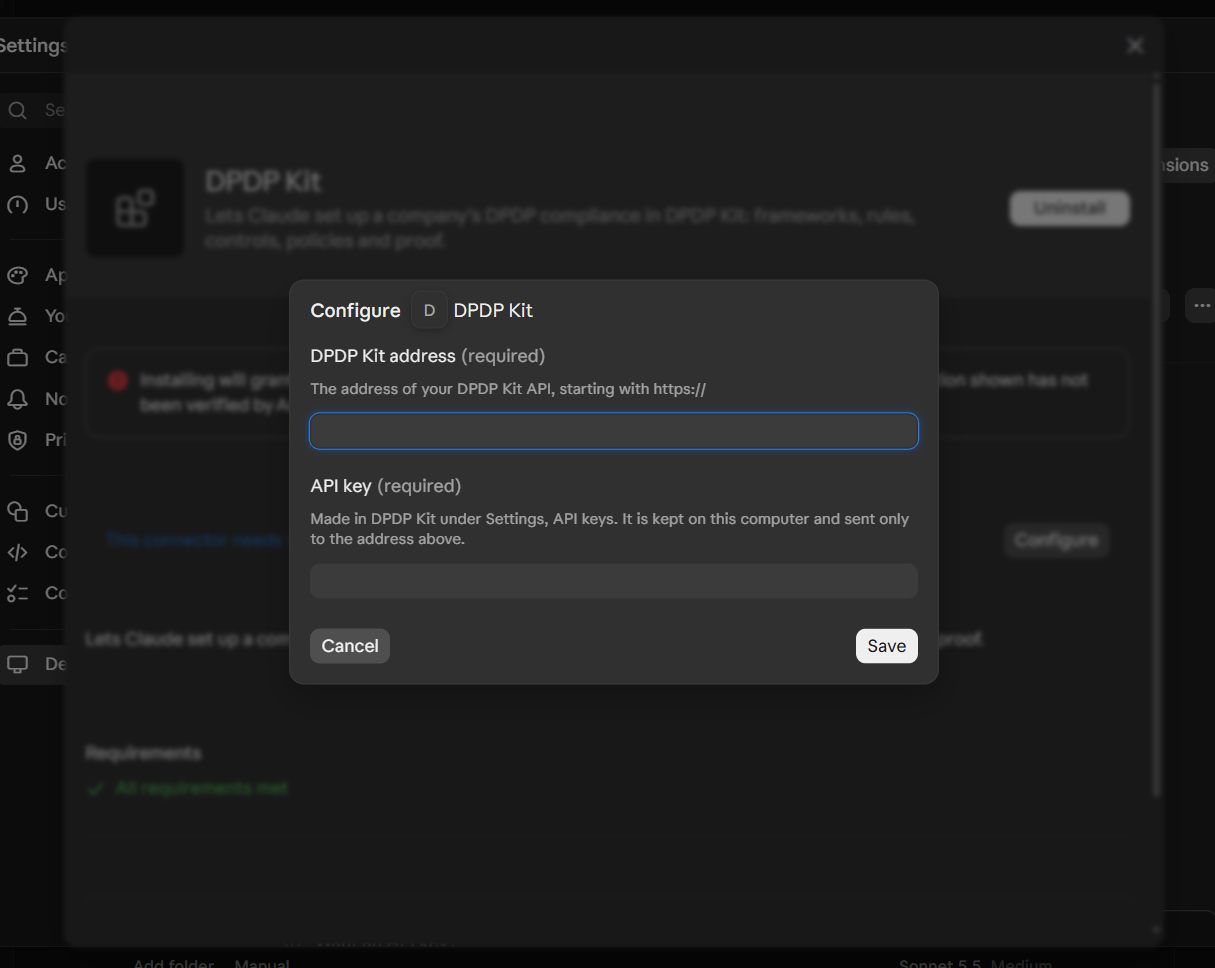
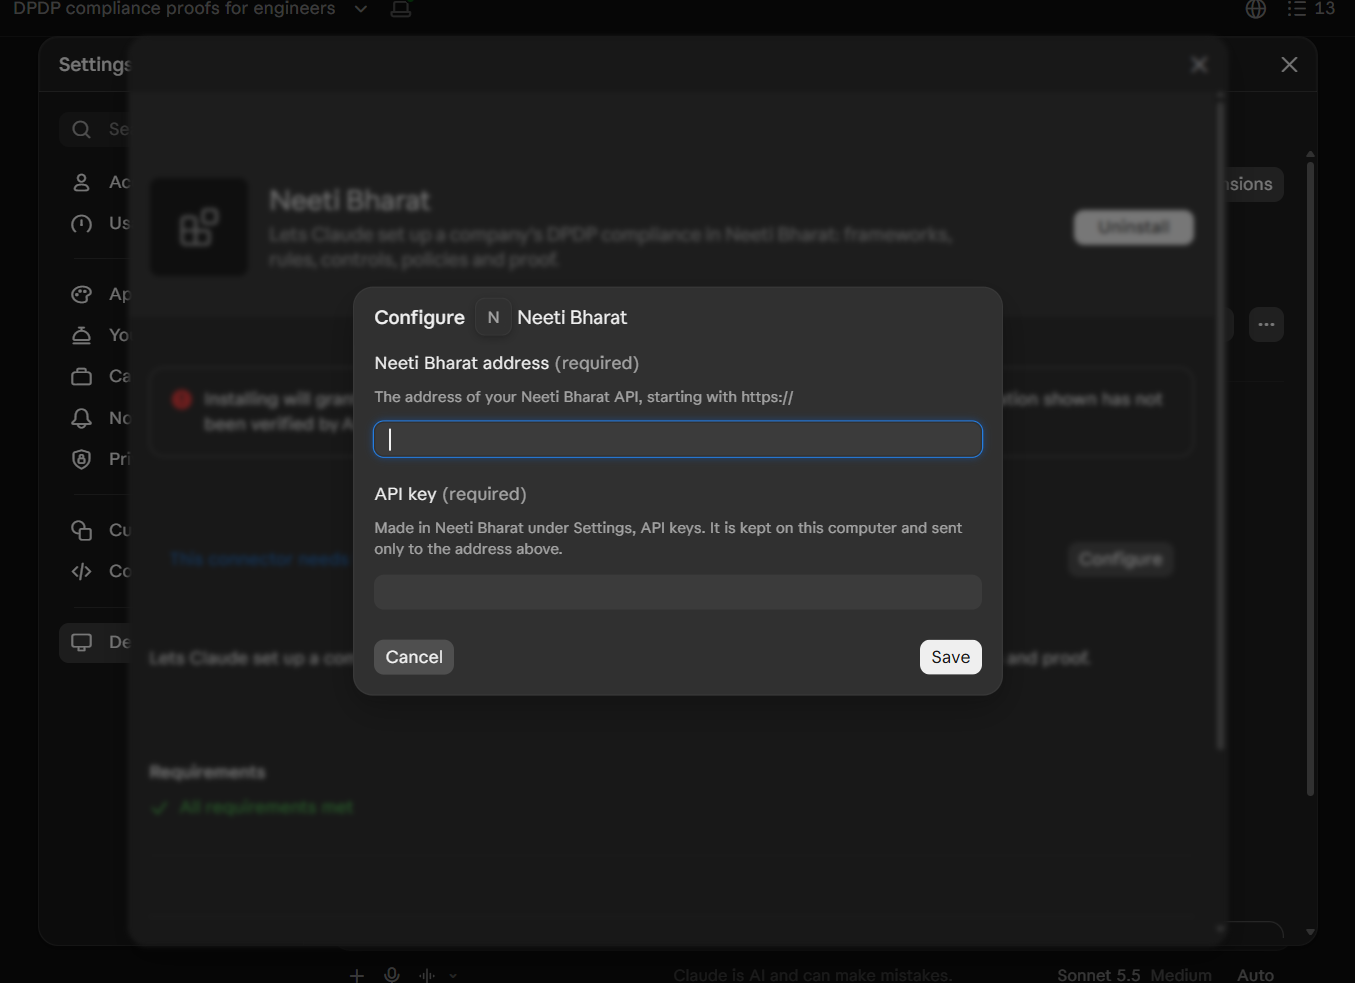
fix: images of mcp guide

diff --git a/apps/mcp/release-notes.md b/apps/mcp/release-notes.md
@@ -21,6 +21,8 @@ This lets Claude Desktop set up your DPDP compliance work in Neeti Bharat: polic
 
 ![The Extensions page, which says to drag .MCPB files here to install](https://raw.githubusercontent.com/neetibharat/neeti-bharat/main/docs/images/mcp/2-drag-file.png)
 
+![The install box for Neeti Bharat, with the Install button](https://raw.githubusercontent.com/neetibharat/neeti-bharat/main/docs/images/mcp/2-install.png)
+
 Claude Desktop warns that the extension is not verified by Anthropic. That is expected for an extension that is not in Anthropic's own directory. Only install a file you got from your own team.
 
 **4. Enter the address and your key.** A box opens with two fields:
